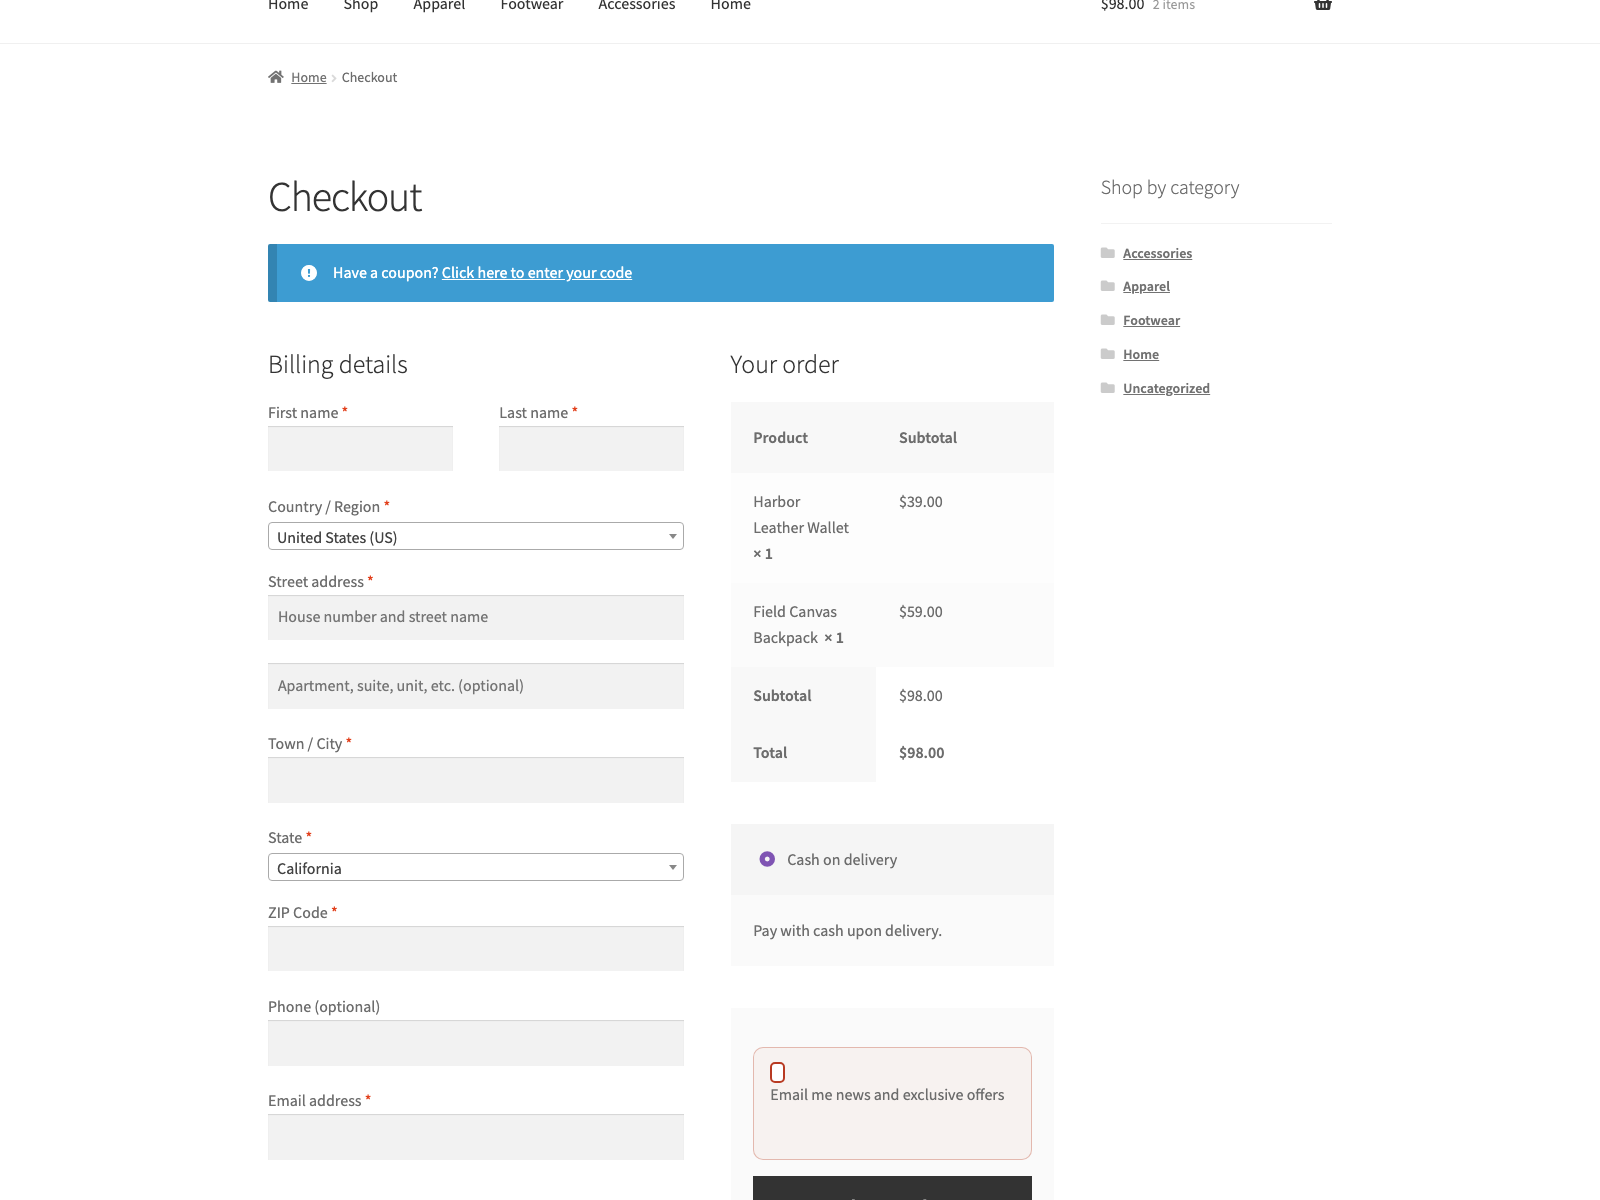
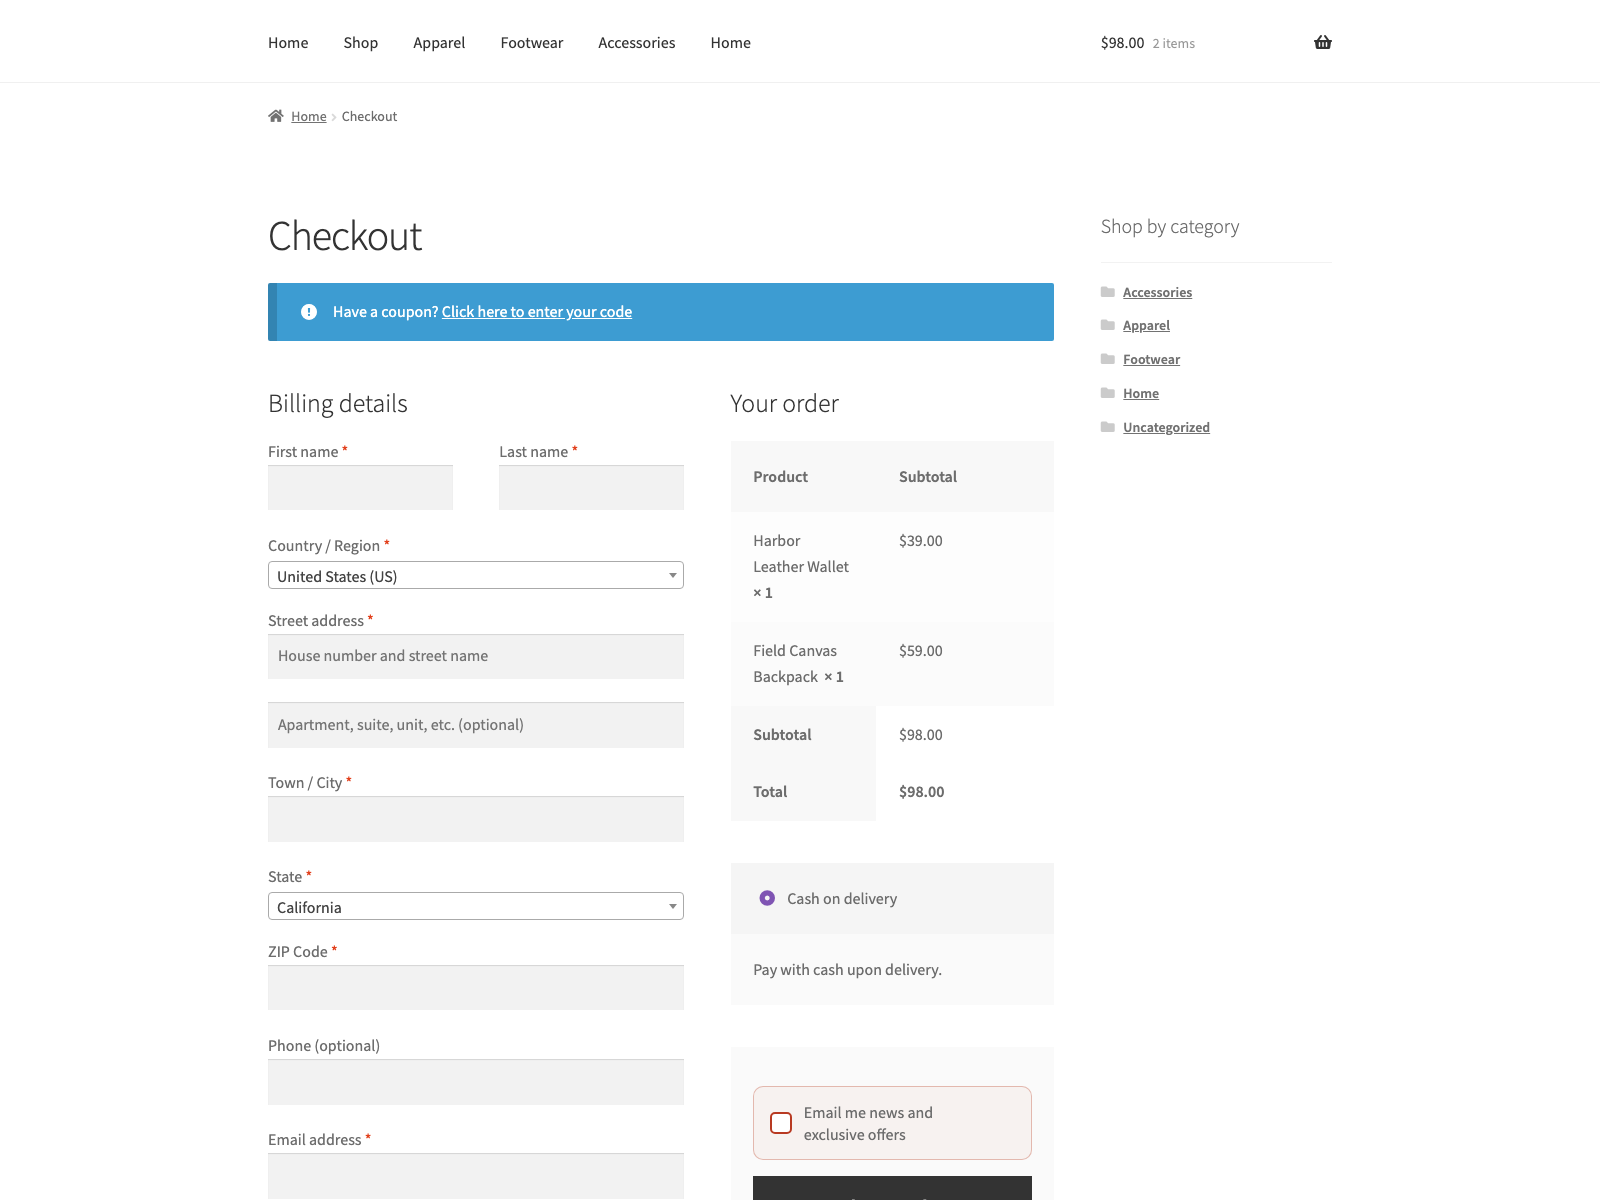
1.1.7: checkout opt-in checkbox beside its label on Storefront-like themes (#17)

diff --git a/assets/css/checkout.css b/assets/css/checkout.css
@@ -178,3 +178,21 @@
         animation: none;
     }
 }
+
+/* WooCommerce core sets `.woocommerce form .form-row label { display: block }`
+   and `.input-checkbox { display: inline }`, which outrank the classes above and
+   stack the box above its text on themes like Storefront. Match their weight. */
+.woocommerce form .form-row.subscribe-optin .subscribe-optin__label {
+    display: flex;
+    align-items: center;
+}
+
+.woocommerce form .form-row.subscribe-optin .subscribe-optin__input {
+    display: grid;
+    flex: 0 0 var(--subscribe-box);
+    width: var(--subscribe-box);
+    min-width: var(--subscribe-box);
+    height: var(--subscribe-box);
+    margin: 0;
+    padding: 0;
+}

diff --git a/abono.php b/abono.php
@@ -3,7 +3,7 @@
  * Plugin Name:       Abono - Newsletter Signup for WooCommerce
  * Plugin URI:        https://plogins.com/abono/
  * Description:        Add a newsletter opt-in at checkout and collect subscribers with consent.
- * Version:           1.1.6
+ * Version:           1.1.7
  * Requires at least: 6.5
  * Requires PHP:      8.1
  * Requires Plugins:  woocommerce
@@ -25,7 +25,7 @@ namespace Subscribe;
 
 defined('ABSPATH') || exit;
 
-const VERSION     = '1.1.6';
+const VERSION     = '1.1.7';
 const PLUGIN_FILE = __FILE__;
 
 define('SUBSCRIBE_DIR', plugin_dir_path(__FILE__));
